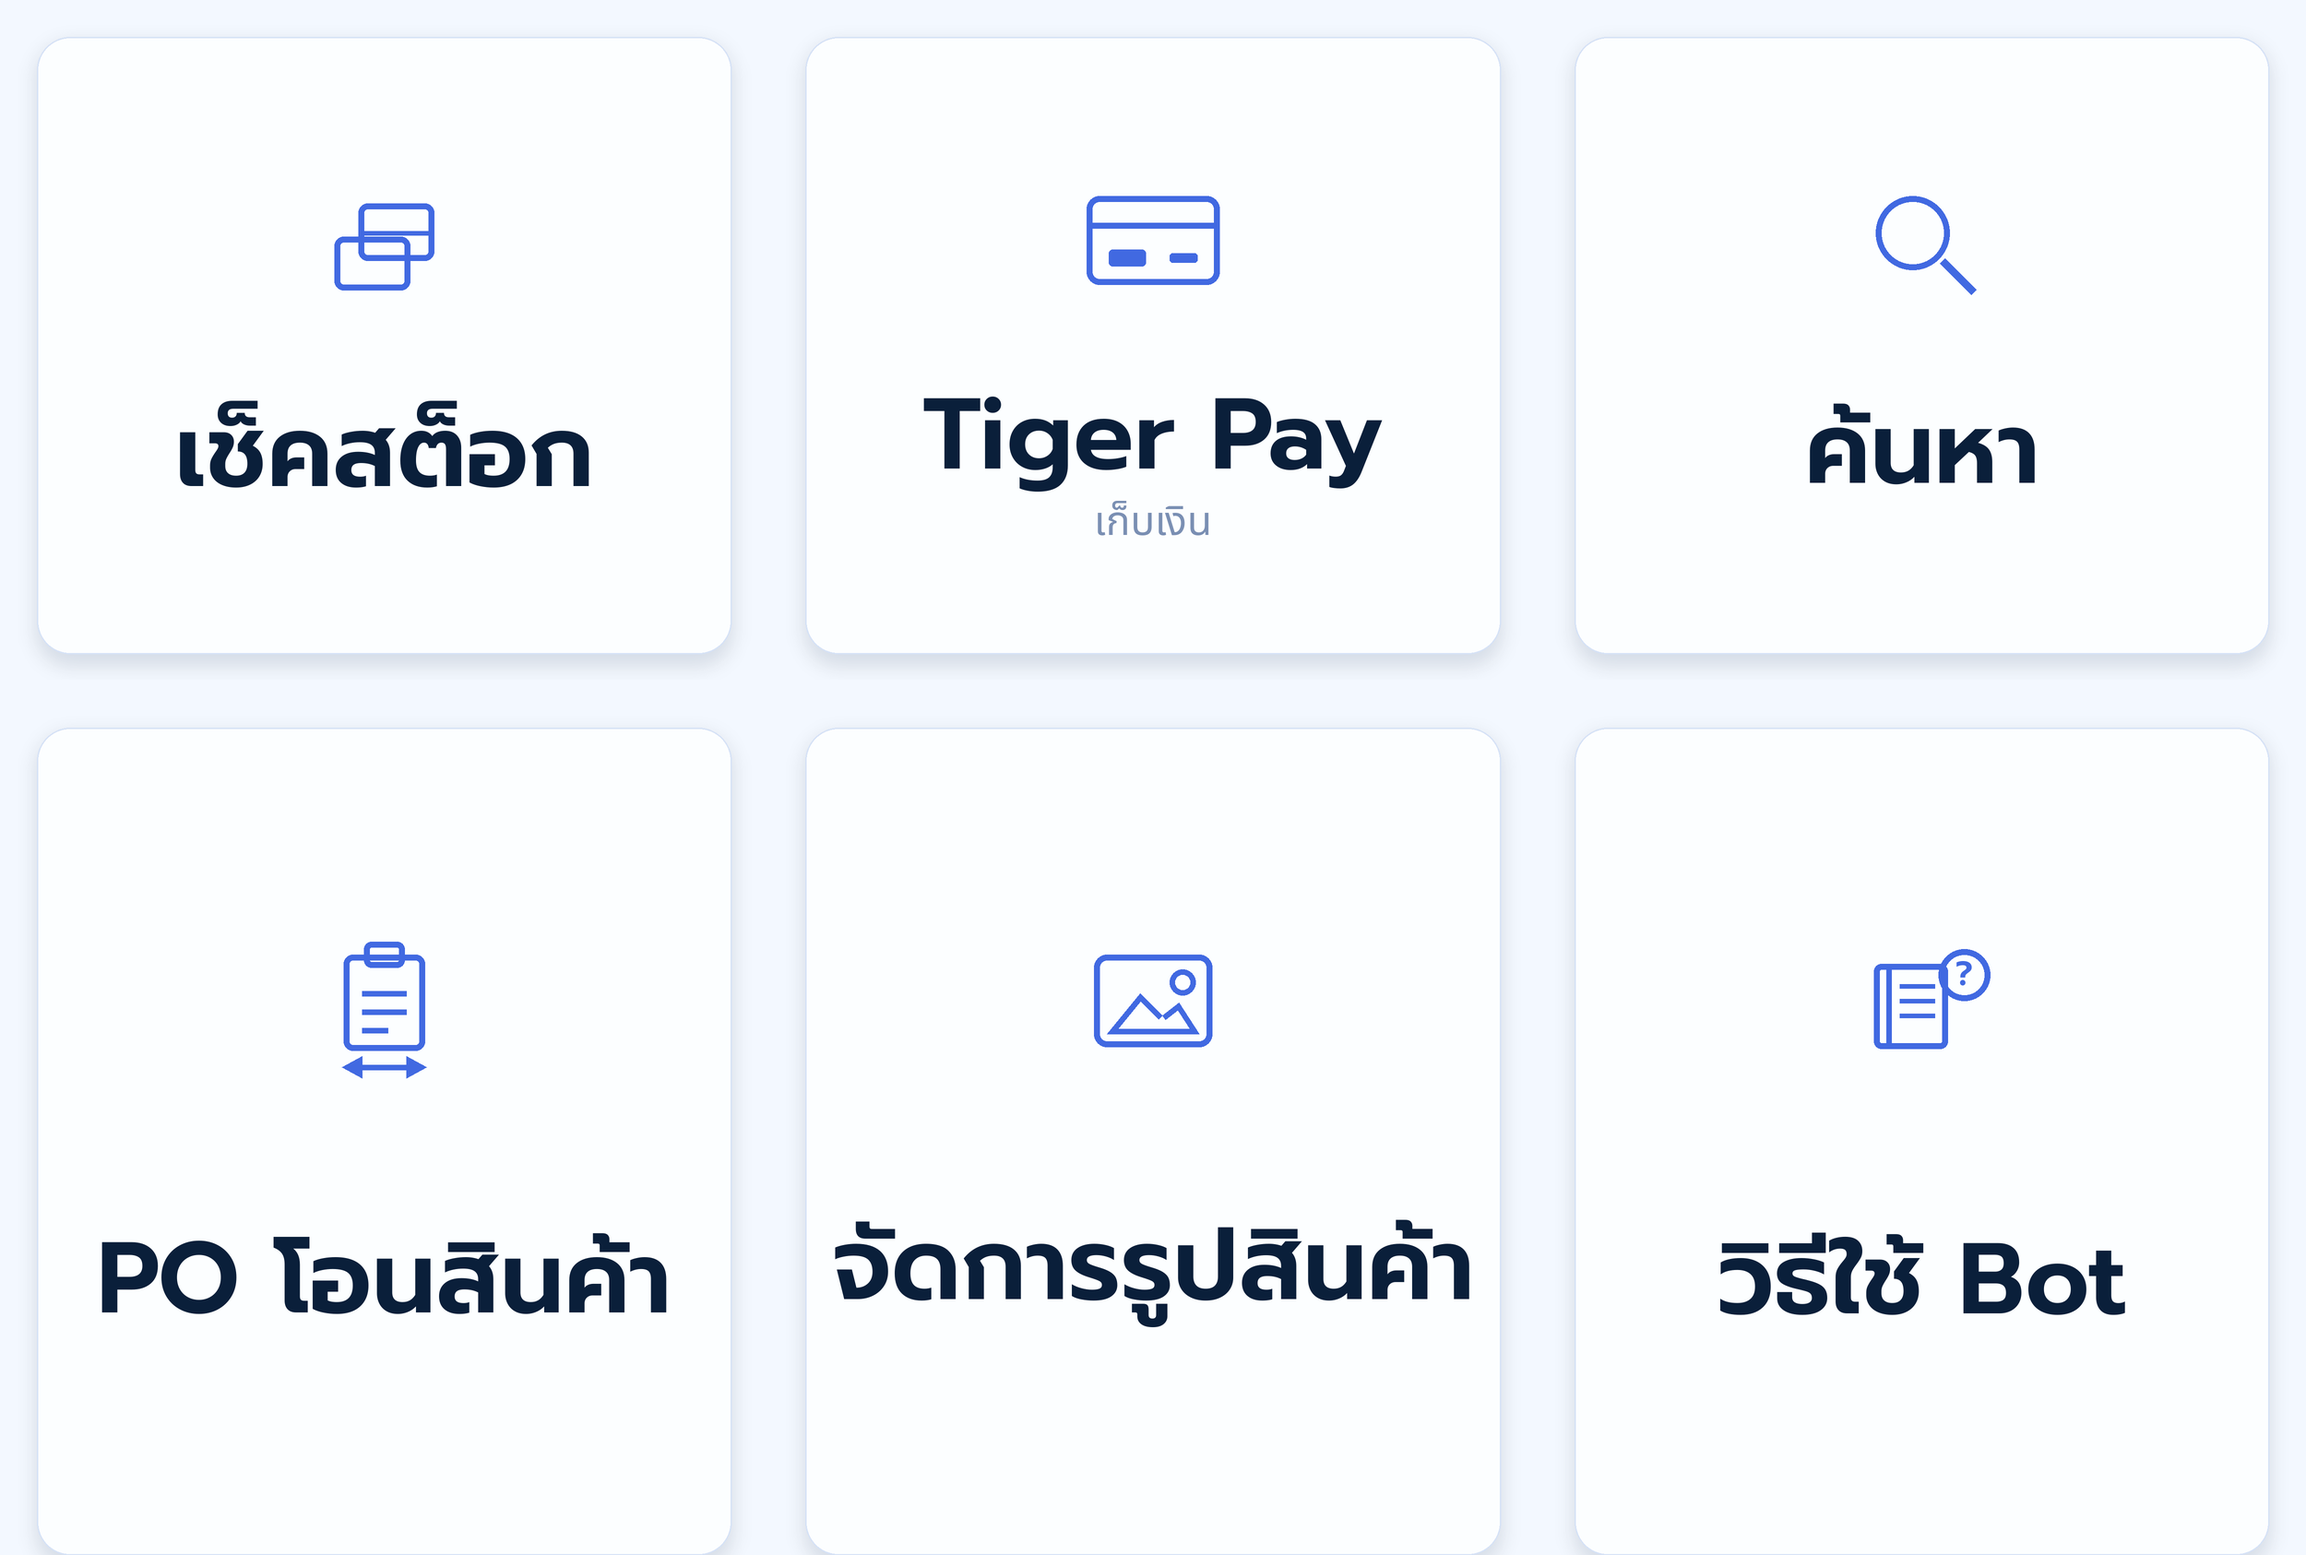
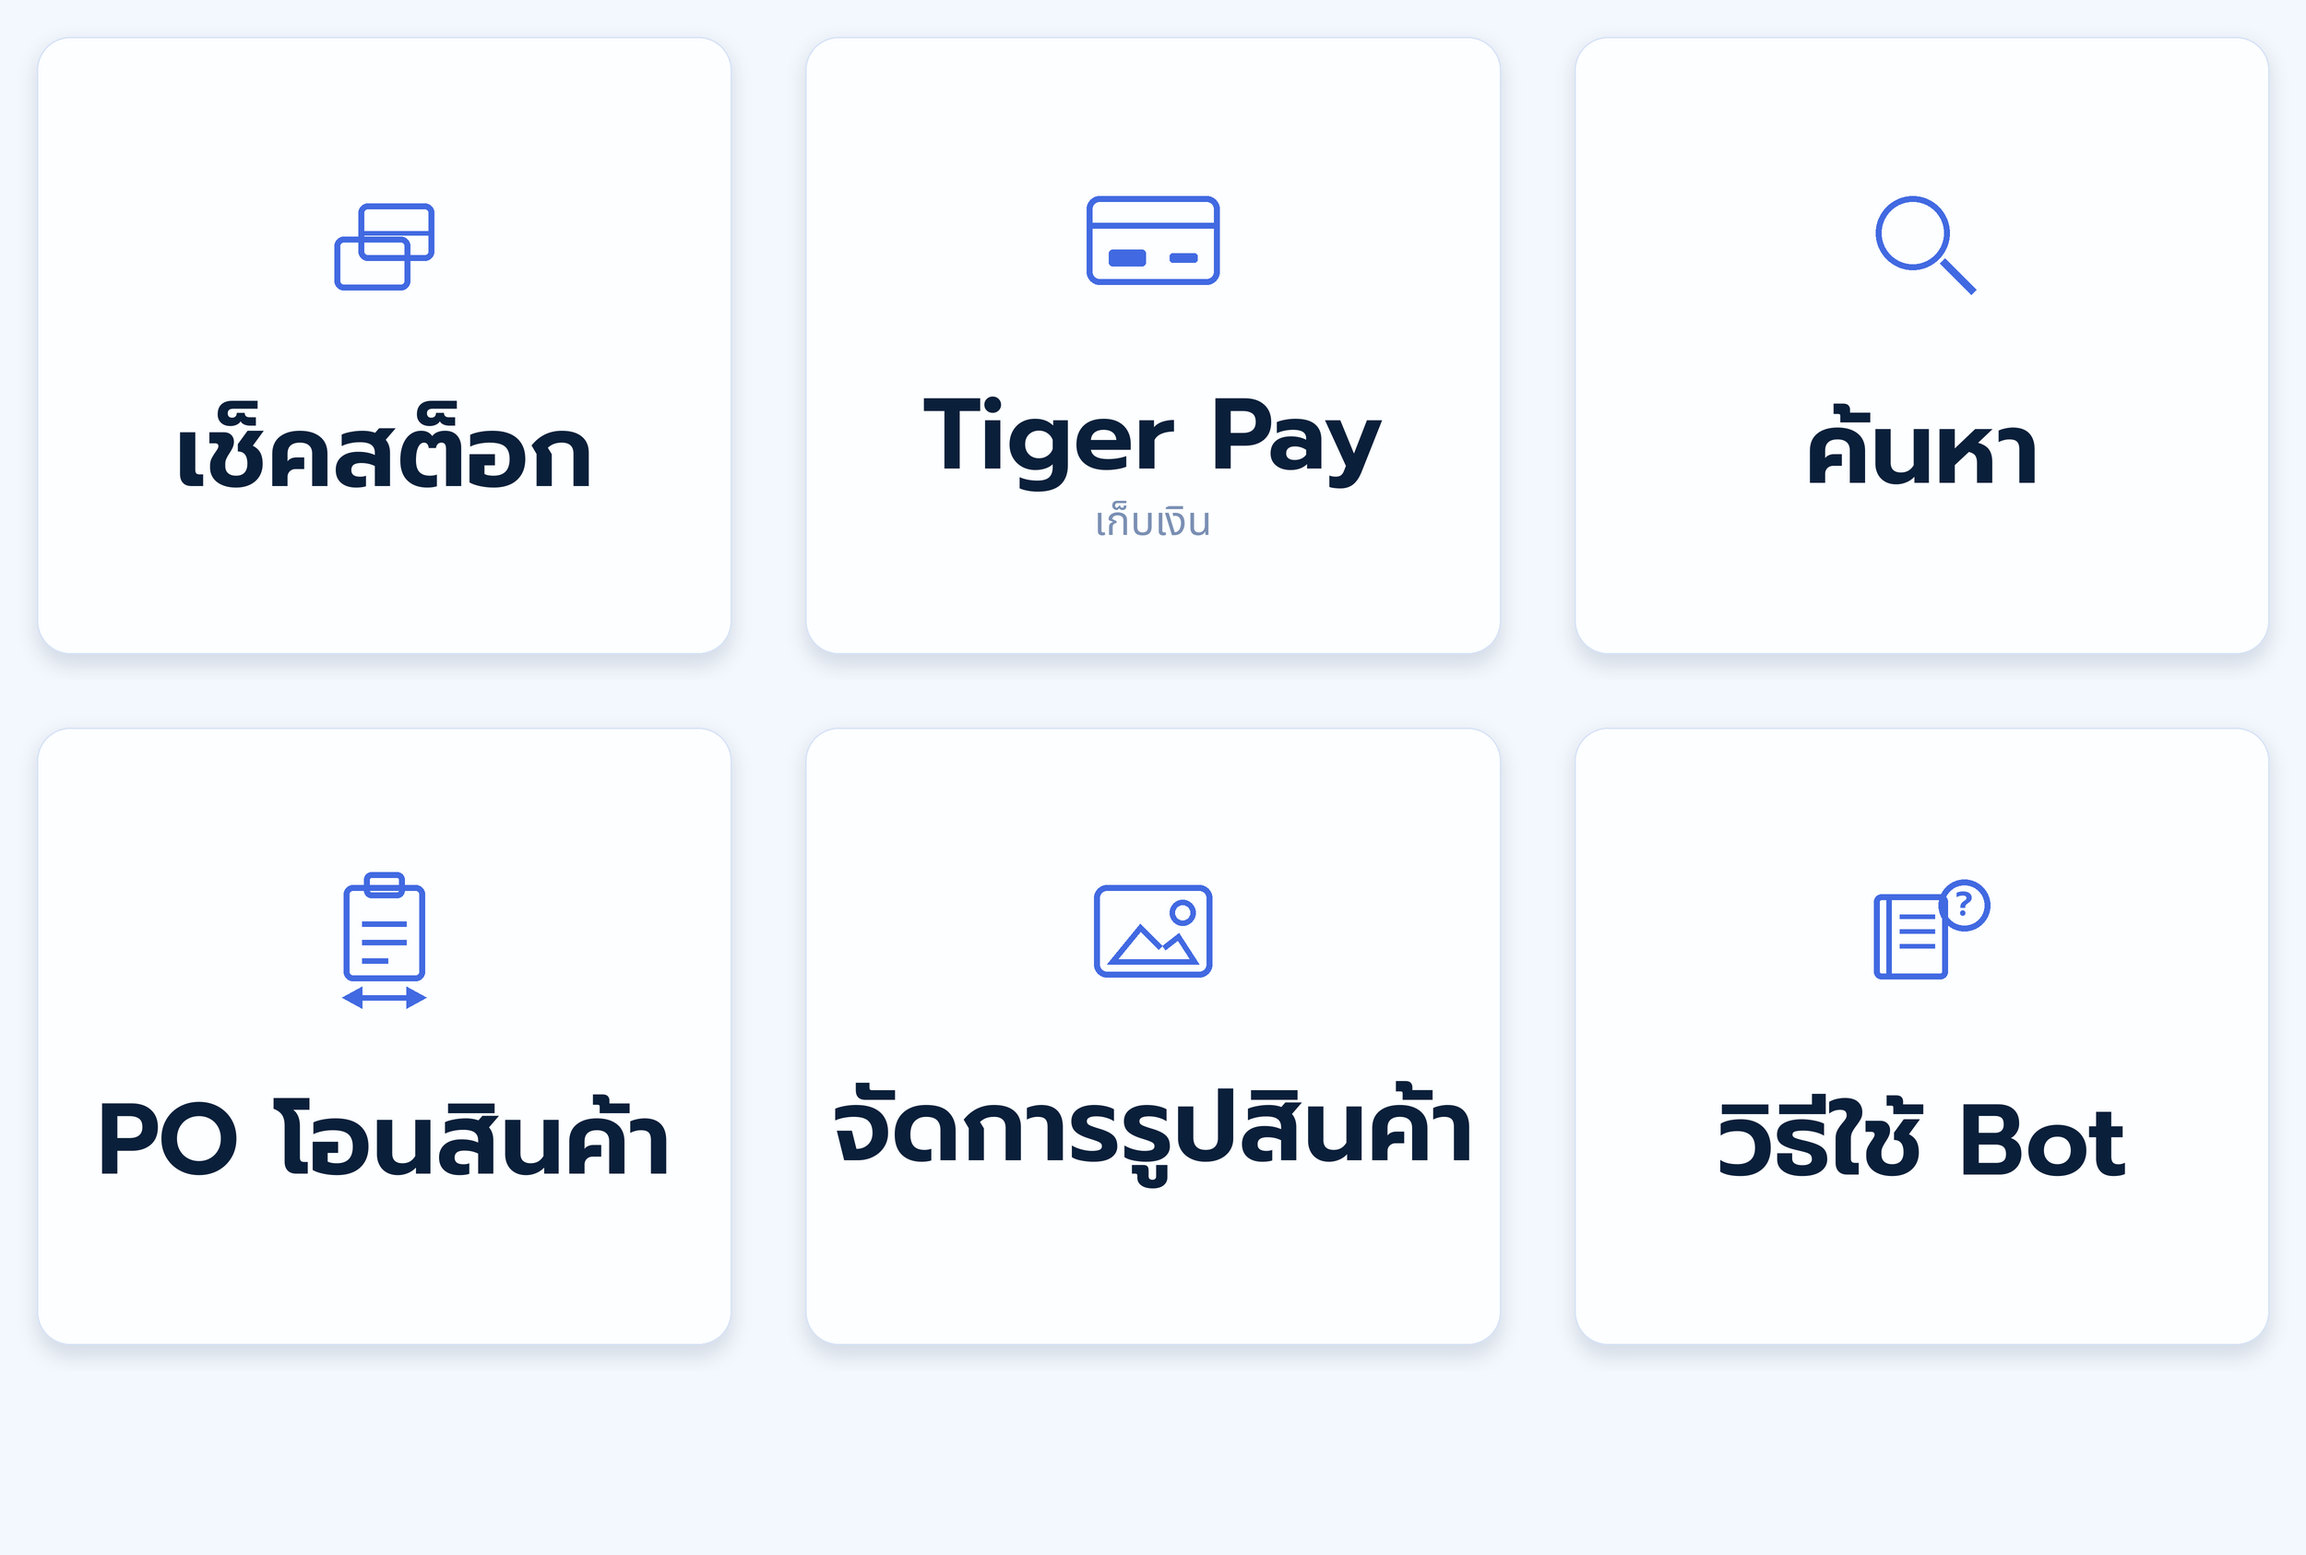
Keep rich menu bottom cards equal height; extend background only.
After removing the footer bar, row-2 cards were stretched to the canvas edge. Restore 669px cards and leave the former footer slot as ice-blue background.

diff --git a/scripts/line_rich_menu/generate_image.py b/scripts/line_rich_menu/generate_image.py
@@ -2,7 +2,7 @@
 """Generate the KCW LINE rich-menu PNG (2500x1686, full-height, 3x2 taps).
 
 Visual: light ice-blue canvas, equal white-blue cards, royal-blue icons,
-navy titles. No footer bar — LINE shows chatBarText on its own menu tab.
+navy titles. Equal-height cards; bottom canvas is background only (no footer bar).
 Actions live in menu_spec.json — this file only paints the image.
 """
 
@@ -29,15 +29,15 @@ DEEP = (12, 28, 84)
 SUB = (122, 143, 179)
 
 COL_WIDTHS = [833, 834, 833]
-# Column gap is 2 * OUTER (40px pad on each cell). Bottom row extends to the
-# canvas edge — LINE draws its own chat-bar tab (chatBarText) below the image.
+# Column gap is 2 * OUTER (40px pad on each cell). Former footer slot stays as
+# canvas background — LINE draws its own chat-bar tab (chatBarText) below the image.
 GAP = 80
 OUTER = 40
-# Top row height unchanged so menu_spec.json tap split (y=749) still lines up.
-ROW0_CARD_H = (H - 148 - OUTER - GAP * 2) // 2  # 669 — legacy footer slot reclaimed by row 2
+ROW0_CARD_H = (H - 148 - OUTER - GAP * 2) // 2  # 669
+ROW1_CARD_H = ROW0_CARD_H
 ROW0_Y = OUTER
 ROW1_Y = OUTER + ROW0_CARD_H + GAP
-ROW1_CARD_H = H - ROW1_Y  # 897 — fills former footer + bottom gap
+BOTTOM_BG = H - ROW1_Y - ROW1_CARD_H  # 228 — bg only, not taller cards
 TAP_SPLIT_Y = ROW0_Y + ROW0_CARD_H + GAP // 2  # 749 — matches menu_spec.json
 
 CELLS = [
@@ -267,8 +267,8 @@ def _draw_icon(draw: ImageDraw.ImageDraw, name: str, cx: int, cy: int) -> None:
 def generate(*, cells: list[dict] | None = None, out: Path | None = None) -> Path:
     cell_list = cells or CELLS
     dest = out or OUT
-    if ROW1_Y + ROW1_CARD_H != H:
-        raise SystemExit("Bottom row must extend to the canvas edge")
+    if ROW1_Y + ROW1_CARD_H + BOTTOM_BG != H:
+        raise SystemExit("Bottom padding must fill the canvas below row 2 cards")
     if GAP != OUTER * 2:
         raise SystemExit("Row gap must match the visible column gap (2 * OUTER)")
 
@@ -303,8 +303,8 @@ def generate(*, cells: list[dict] | None = None, out: Path | None = None) -> Pat
         _px(80),
     )
     print(
-        f"Title font {title_size // SCALE}px · row0 {ROW0_CARD_H}px · "
-        f"row1 {ROW1_CARD_H}px · gap {GAP}px (row=col)"
+        f"Title font {title_size // SCALE}px · card {ROW0_CARD_H}px · "
+        f"gap {GAP}px · bottom bg {BOTTOM_BG}px"
     )
     noto_regular = Path("/usr/share/fonts/truetype/noto/NotoSansThai-Regular.ttf")
     sub_font = (
